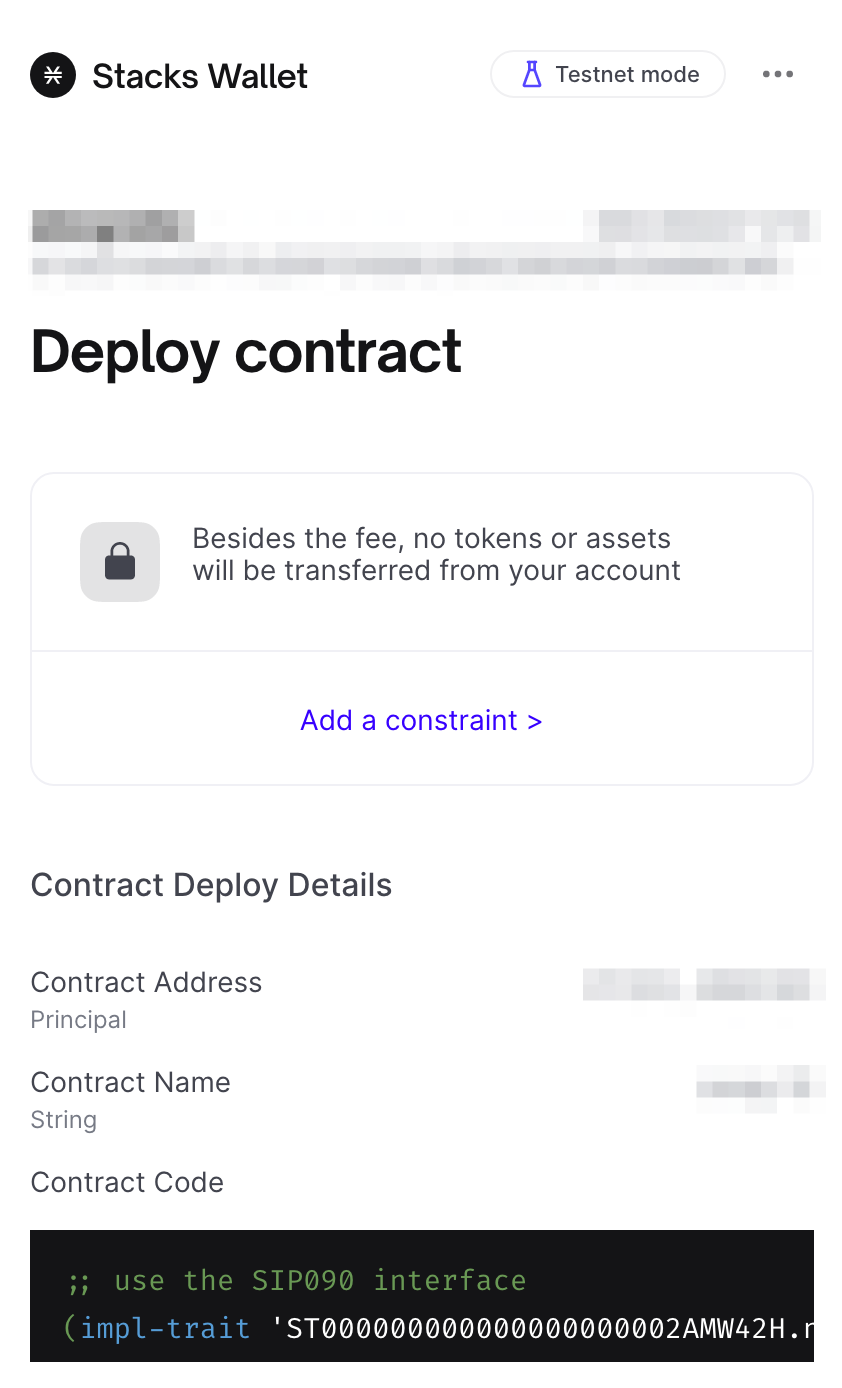
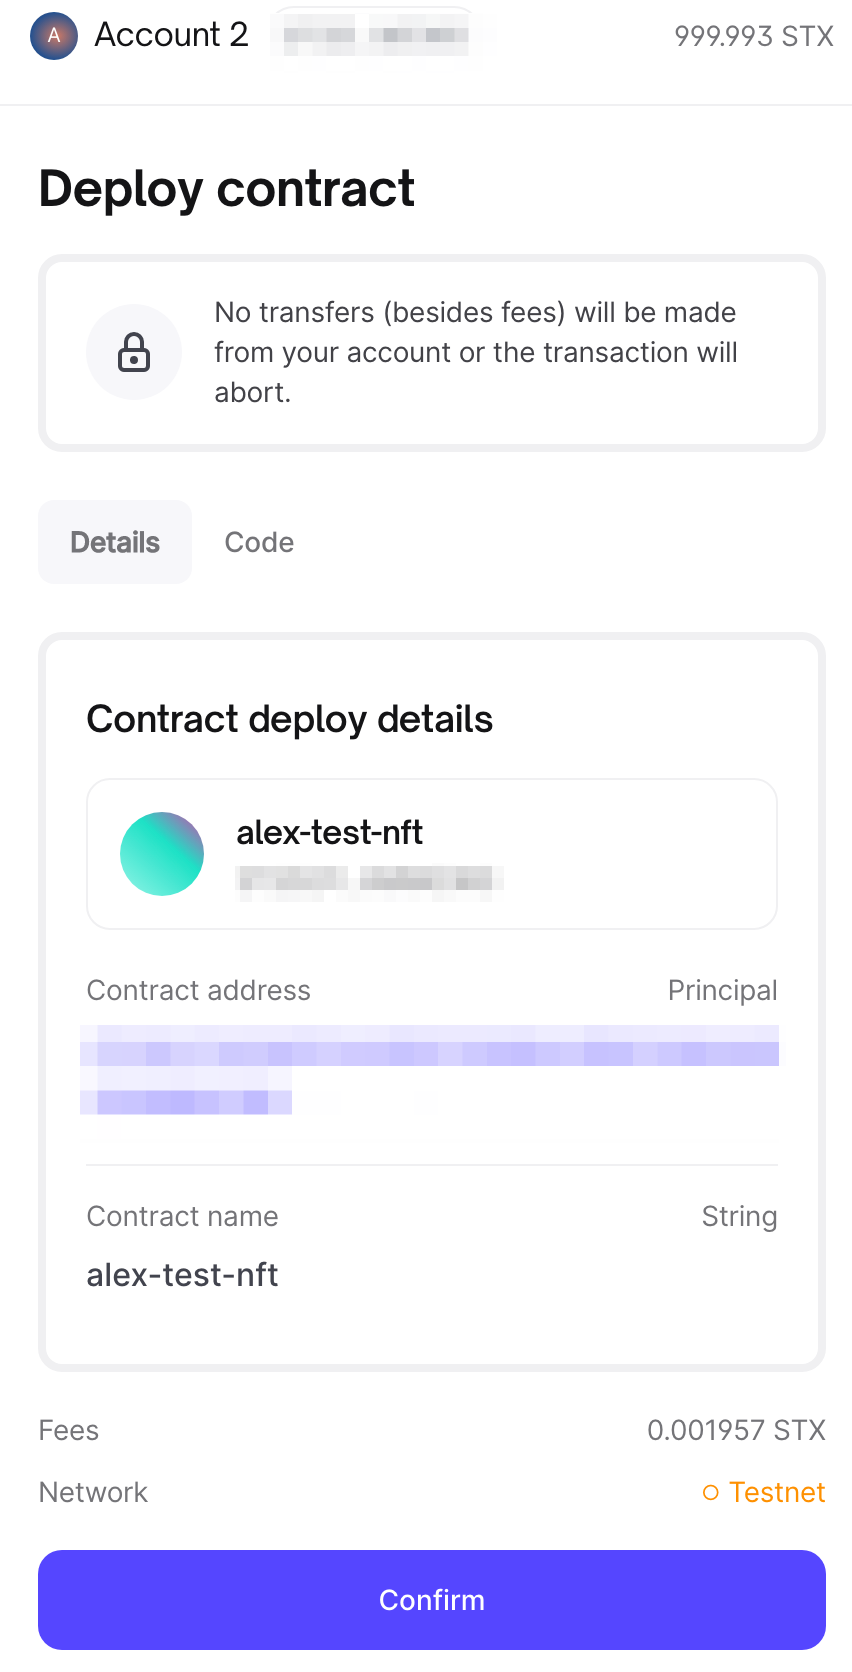
feat: update instructions with new contract

diff --git a/src/pages/write-smart-contracts/my-own-nft.md b/src/pages/write-smart-contracts/my-own-nft.md
@@ -19,17 +19,19 @@ In this tutorial, you will create your own non-fungible token (NFT) on [Bitcoin]
 
 NFTs have desirable [characteristics](/write-smart-contracts/tokens) like uniqueness, programmability, and permanent records ownership. Very simplfied, an NFT is a piece of information that is unique. A common example of an NFT might be a piece of digital art.
 
-> To experience collecting and owning an NFT, try out [our SWAG NFT app]().
+> To experience collecting and owning an NFT, try out the [SWAG NFT app](https://stacks-nft-onboarding.vercel.app/).
 
-Clarity offers native support for token creation and management. On top of that, the Stacks ecosystem adopted a standard for NFTs (see [SIP009](https://github.com/stacksgov/sips/pull/3)). With these in place, it becomes very easy for anyone to create NFTs.
+Clarity offers native support for token creation and management. On top of that, the Stacks ecosystem adopted a standard for NFTs (see [SIP009](https://github.com/stacksgov/sips/blob/main/sips/sip-009/sip-009-nft-standard.md)). With these in place, it becomes very easy for anyone to create NFTs.
 
-By the end of this tutorial, you:
+By the end of this tutorial, you will ...
 
 - Have a working Clarity smart contract based on the SIP009 standard
-- Deploy a contract to the Stacks 2.0 blockchain and call its public methods
-- Can collect a very rare SWAG NFT - limited to only 100 pieces!
+- Deploy a contract to the Stacks 2.0 testnet and call a public method
+- Claim a very rare SWAG NFT - limited to only 100 pieces!
 
 ## Prerequisites
+
+Install [Stacks Wallet for web](https://www.hiro.so/wallet/install-web) - a Firefox/Chrome extension that will allow you manage your wallet and confirm transactions from within your browser.
 
 ## Step 1: obtain STX for testing
 
@@ -39,7 +41,9 @@ The **STX faucet** allows you request testnet tokens. To run the faucet, open up
 
 ![faucet](/images/pages/nft/faucet.png)
 
-Once the faucet call was send, you will see a confirmation: "STX coming your way shortly!". You need to wait up to a minute for the transaction to complete.
+Once the faucet call was send, you will see a confirmation: "STX coming your way shortly!". You need to wait up to 2 minutes for the transaction to complete.
+
+-> You have to wait until the transaction is completed on the testnet. The testnet has a transaction processing time ("target block time") of 2 minutes. The waiting period on the mainnet is close to 10 minutes.
 
 Once the transaction is successfully processed, you can see that your new balance on the right side of the Sandbox view.
 
@@ -47,34 +51,36 @@ Once the transaction is successfully processed, you can see that your new balanc
 
 Open up the [Sandbox deploy view](https://explorer.stacks.co/sandbox/deploy?chain=testnet). You should see a Clarity code editor with a "hello world" code snippet. Replace the entire code with the following:
 
+!> Make sure to replace `MY-OWN-NFT` with your own token name!
+
 ```clar
 ;; use the SIP090 interface
-(impl-trait 'ST000000000000000000002AMW42H.nft-trait.nft-trait)
+(impl-trait 'ST2D2YSXSNFVXJDWYZ4QWJVBXC590XSRV5AMMCW0.nft-trait.nft-trait)
 
-;; define a new NFT. Make sure to replace NFT_NAME
-(define-non-fungible-token <NFT_NAME> uint)
+;; define a new NFT. Make sure to replace MY-OWN-NFT
+(define-non-fungible-token MY-OWN-NFT uint)
 
 ;; Store the last issues token ID
 (define-data-var last-id uint u0)
 
 ;; Claim a new NFT
 (define-public (claim)
-  (ok (mint tx-sender)))
+  (mint tx-sender))
 
 ;; SIP090: Transfer token to a specified principal
 (define-public (transfer (token-id uint) (sender principal) (recipient principal))
   (if (and
         (is-eq tx-sender sender))
-      ;; Make sure to replace NFT_NAME
-      (match (nft-transfer? <NFT_NAME> token-id sender recipient)
+      ;; Make sure to replace MY-OWN-NFT
+      (match (nft-transfer? MY-OWN-NFT token-id sender recipient)
         success (ok success)
-        error (err {code: error}))
-      (err {code: error})))
+        error (err error))
+      (err u500)))
 
 ;; SIP090: Get the owner of the specified token ID
 (define-read-only (get-owner (token-id uint))
-  ;; Make sure to replace NFT_NAME
-  (ok (nft-get-owner? <NFT_NAME> token-id)))
+  ;; Make sure to replace MY-OWN-NFT
+  (ok (nft-get-owner? MY-OWN-NFT token-id)))
 
 ;; SIP090: Get the last token ID
 (define-read-only (get-last-token-id)
@@ -82,23 +88,28 @@ Open up the [Sandbox deploy view](https://explorer.stacks.co/sandbox/deploy?chai
 
 ;; SIP090: Get the token URI. You can set it to any other URI
 (define-read-only (get-token-uri (token-id uint))
-  (ok (some "https://docs.blockstack.org")))
+  (ok (some "https://docs.stacks.co")))
 
 ;; Internal - Mint new NFT
 (define-private (mint (new-owner principal))
     (let ((next-id (+ u1 (var-get last-id))))
-      ;; Make sure to replace NFT_NAME
-      (match (nft-mint? <NFT_NAME> next-id new-owner)
+      ;; Make sure to replace MY-OWN-NFT
+      (match (nft-mint? MY-OWN-NFT next-id new-owner)
         success
           (begin
             (var-set last-id next-id)
-            (ok success))
-        error (err {code: error}))))
+            ;; only make contract call when last-id is 0
+            (if
+              (is-eq next-id u1)
+              (contract-call? 'ST2D2YSXSNFVXJDWYZ4QWJVBXC590XSRV5AMMCW0.exclusive-swag-nft claim-swag)
+              (ok true)))
+        error (err error))))
+
+;; Internal - Register for exclusive NFT eligiblity
+(contract-call? 'ST2D2YSXSNFVXJDWYZ4QWJVBXC590XSRV5AMMCW0.exclusive-swag-nft register-contract)
 ```
 
-!> Make sure to replace `<NFT_NAME>` with your own token name!
-
-Next, set a name for your contract. The Sandbox creates a random name, but we should replace it for easier future reference. You can use the same name you used to replace `<NFT_NAME>`.
+Next, set a name for your contract. The Sandbox creates a random name, but we should replace it for easier future reference. You can use the same name you used to replace `MY-OWN-NFT`.
 
 With the contract code and name defined, you can hit the "Deploy" button. It will open the Stacks Web Wallet:
 
